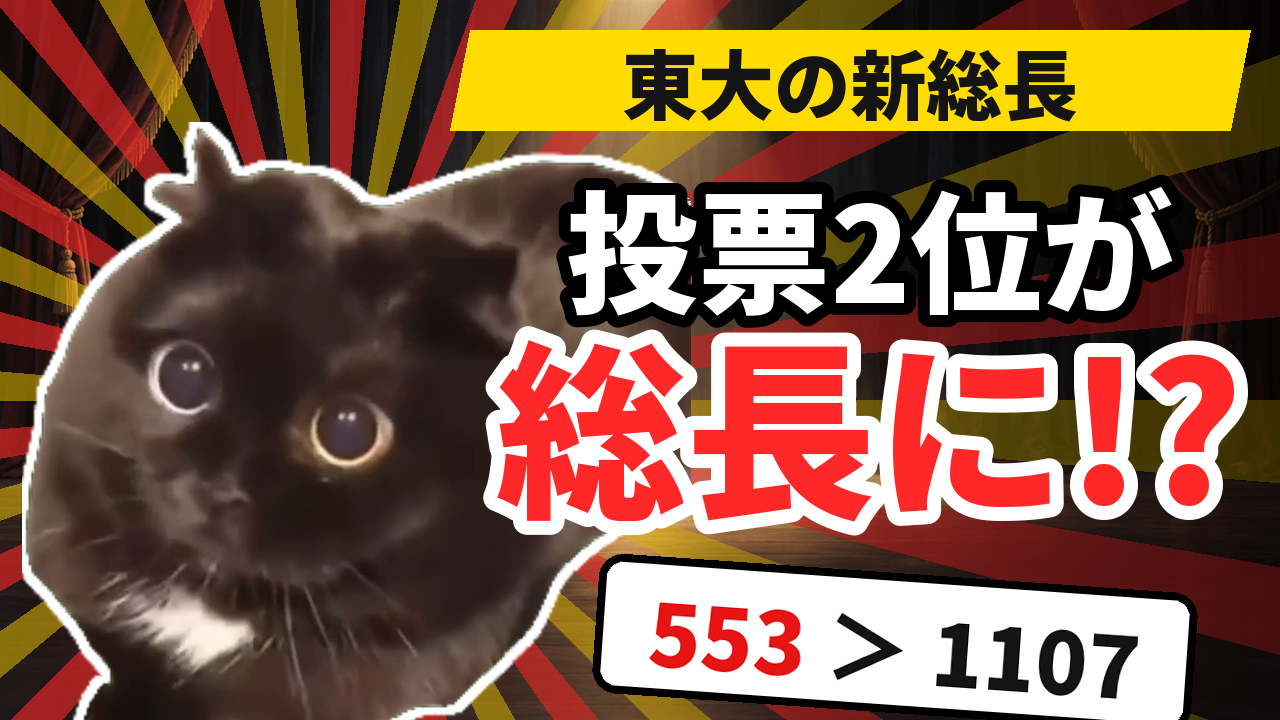
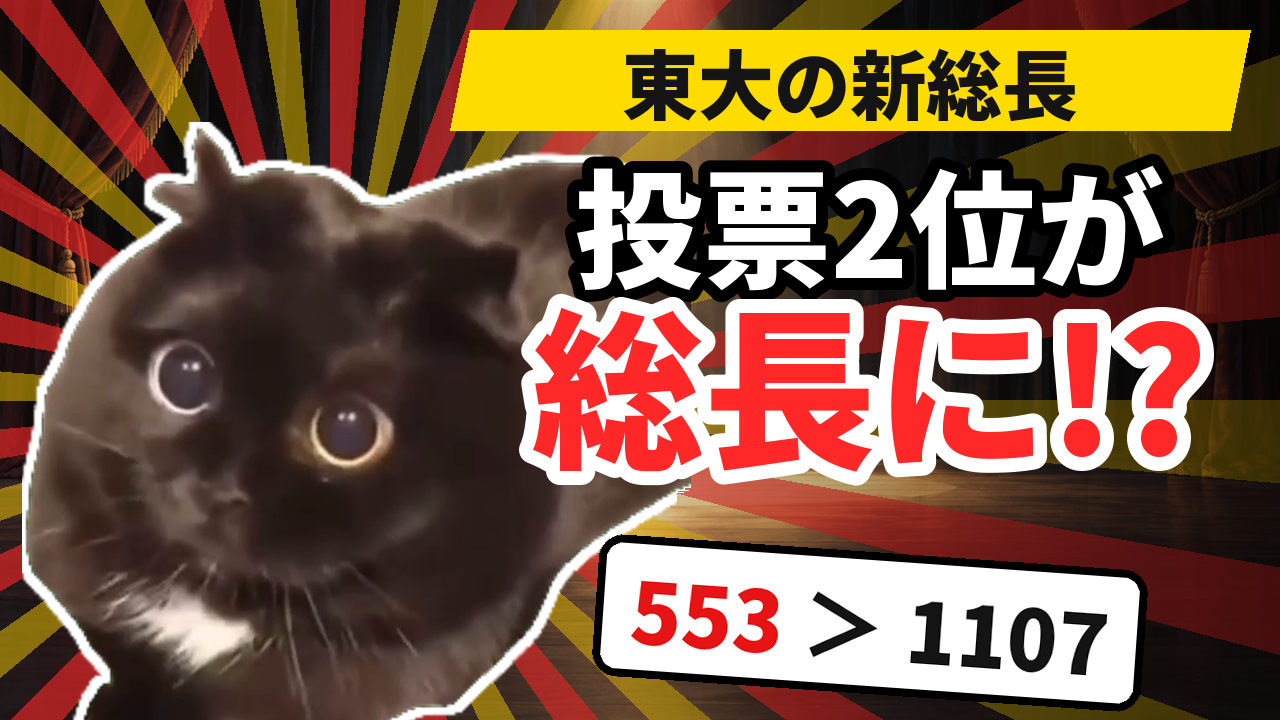
catmeme: 1本目のサムネの別案（下の札の文言 A〜E）
Claude-Session: https://claude.ai/code/session_011g9CsrfFD5YswfNSvNDW39

Changed region(s): [[0.375, 0.2139, 1.0, 1.0]]

diff --git a/catmeme/make_thumb_01.py b/catmeme/make_thumb_01.py
@@ -47,7 +47,10 @@ def text(d, xy, s, size, fill, stroke, stroke_fill, anchor="la"):
     d.text(xy, s, font=P.font("black", size), fill=fill, stroke_width=stroke, stroke_fill=stroke_fill, anchor=anchor)
 
 
-def main():
+RED = (230, 20, 20)
+
+
+def main(badge_parts=(("553", 1), (" ＞ ", 0), ("1107", 0)), out=OUT):
     bg = Image.open(os.path.join(HERE, "backgrounds", "01_todai", "bg06_spotlight.png")).convert("RGB").resize((W, H))
     img = bg.convert("RGBA")
     # 集中線（赤と黄色の放射）
@@ -77,24 +80,49 @@ def main():
     d.polygon([(470, 30), (1250, 30), (1230, 130), (450, 130)], fill=(255, 220, 0))
     text(d, (850, 80), "東大の新総長", 76, (20, 20, 20), 0, None, anchor="mm")
     # メインの文字
-    text(d, (870, 245), "投票2位が", 132, (255, 255, 255), 12, (0, 0, 0), anchor="mm")
-    text(d, (870, 420), "総長に!?", 190, (255, 40, 40), 14, (255, 255, 255), anchor="mm")
-    # 下の札（553＞1107）
-    badge = Image.new("RGBA", (600, 140), (0, 0, 0, 0))
+    text(d, (870, 222), "投票2位が", 128, (255, 255, 255), 12, (0, 0, 0), anchor="mm")
+    text(d, (870, 380), "総長に!?", 172, (255, 40, 40), 14, (255, 255, 255), anchor="mm")
+    # 下の札（赤い部分と黒い部分を並べる。"\n" で2行）
+    lines = [[]]
+    for t, col in badge_parts:
+        if t == "\n":
+            lines.append([])
+        else:
+            lines[-1].append((t, col))
+    size = 84 if len(lines) == 1 else 62
+    f = P.font("black", size)
+    tws = [sum(d.textlength(t, font=f) for t, _ in ln) for ln in lines]
+    if max(tws) > 620:
+        f = P.font("black", int(size * 620 / max(tws)))
+        tws = [sum(d.textlength(t, font=f) for t, _ in ln) for ln in lines]
+    lh = f.size * 1.15
+    bw, bh = int(max(tws) + 70), int(lh * len(lines) + 46)
+    badge = Image.new("RGBA", (bw, bh), (0, 0, 0, 0))
     bd = ImageDraw.Draw(badge)
-    bd.rounded_rectangle((0, 0, 599, 139), 24, fill=(255, 255, 255), outline=(0, 0, 0), width=8)
-    f = P.font("black", 86)
-    parts = [("553", (230, 20, 20)), (" ＞ ", (20, 20, 20)), ("1107", (20, 20, 20))]
-    x = 300 - sum(bd.textlength(t, font=f) for t, _ in parts) / 2
-    for t, col in parts:
-        bd.text((x, 72), t, font=f, fill=col, anchor="lm")
-        x += bd.textlength(t, font=f)
+    bd.rounded_rectangle((0, 0, bw - 1, bh - 1), 24, fill=(255, 255, 255), outline=(0, 0, 0), width=8)
+    for i, (ln, tw) in enumerate(zip(lines, tws)):
+        x, y = bw / 2 - tw / 2, 23 + lh * (i + 0.5)
+        for t, col in ln:
+            bd.text((x, y), t, font=f, fill=RED if col else (20, 20, 20), anchor="lm")
+            x += bd.textlength(t, font=f)
     badge = badge.rotate(-4, expand=True, resample=Image.BICUBIC)
-    img.alpha_composite(badge, (590, 552))
-    os.makedirs(os.path.dirname(OUT), exist_ok=True)
-    img.convert("RGB").save(OUT)
-    print("->", OUT)
+    bx = min(int(870 - badge.width / 2), W - badge.width - 8)
+    img.alpha_composite(badge, (bx, H - badge.height - 6))
+    os.makedirs(os.path.dirname(out), exist_ok=True)
+    img.convert("RGB").save(out)
+    print("->", out)
 
+
+# 札の文言の別案（1 = 赤くする部分）
+VARIANTS = {
+    "a": (("過半数", 1), ("の1位が", 0), ("\n", 0), ("まさかの落選", 1)),
+    "b": (("ダブルスコア負け", 1), ("\n", 0), ("からの逆転", 0)),
+    "c": (("1位の", 0), ("半分", 1), ("の票で", 0), ("\n", 0), ("当選", 1)),
+    "d": (("投票の意味", 0), ("とは……", 1)),
+    "e": (("1107票", 0), ("でも", 0), ("落選", 1)),
+}
 
 if __name__ == "__main__":
     main()
+    for k, v in VARIANTS.items():
+        main(v, OUT.replace(".png", f"_{k}.png"))
